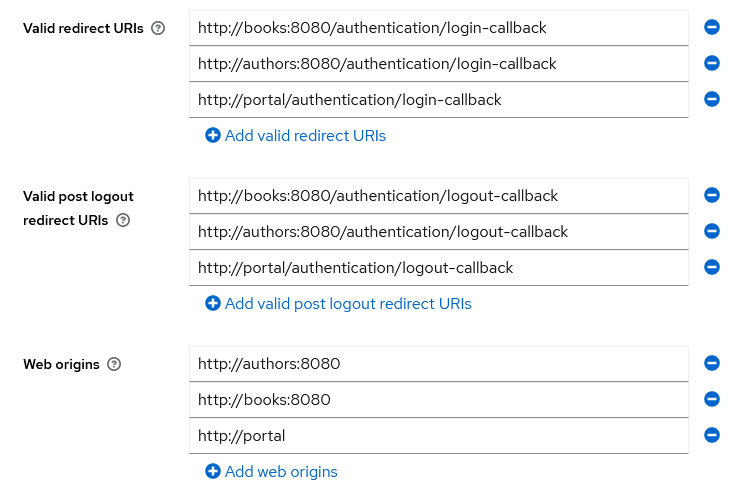
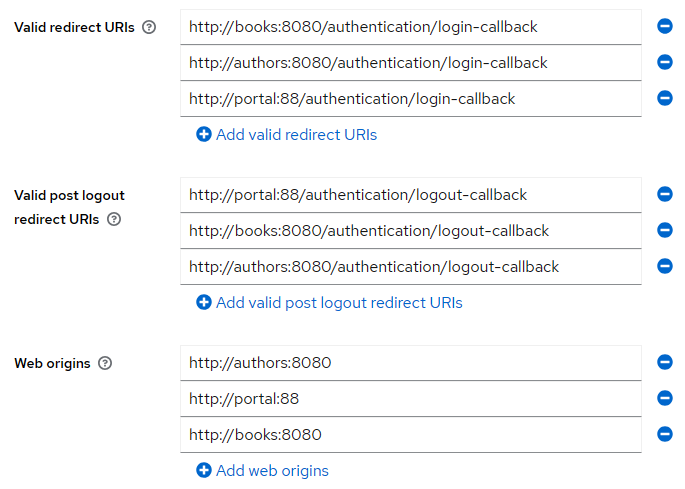
Adding security on the portal, using roles and connecting to the secured API

diff --git a/DemoEditor/portal-gui/Program.cs b/DemoEditor/portal-gui/Program.cs
@@ -16,19 +16,31 @@ public class Program
         builder.RootComponents.Add<App>("#app");
         builder.RootComponents.Add<HeadOutlet>("head::after");
 
-        builder.Services.AddScoped(sp => new HttpClient());
+        builder.Services
+            .AddHttpClient("BooksAPI", client => client.BaseAddress = new Uri("http://books:81/Books/"))
+            .AddHttpMessageHandler(x => {
+                var handler = x.GetRequiredService<AuthorizationMessageHandler>()
+                    .ConfigureHandler(new[] { "http://books:81" });
+                return handler;
+            });
 
-        // builder.Services.AddOidcAuthentication(options =>
-        // {
-        //     builder.Configuration.Bind("Local", options.ProviderOptions);
-        //     // These two lines are commented out because the line above gets the values from the .json configuration
-        //     // options.ProviderOptions.Authority = "http://iam:8080/realms/demoeditor/";
-        //     // options.ProviderOptions.ClientId = "portal";
-        //     options.UserOptions.RoleClaim = "realm_access.roles";
-        // });
+        builder.Services
+            .AddHttpClient("AuthorsAPI", client => client.BaseAddress = new Uri("http://authors:82/Authors/"))
+            .AddHttpMessageHandler(x => {
+                var handler = x.GetRequiredService<AuthorizationMessageHandler>()
+                    .ConfigureHandler(new[] { "http://authors:82" });
+                return handler;
+            });
 
-        // // This is used for the roles to be taken into account when displaying some menus or allowing access to pages
-        // builder.Services.AddApiAuthorization().AddAccountClaimsPrincipalFactory<RolesClaimsPrincipalFactory>();
+        builder.Services.AddOidcAuthentication(options =>
+        {
+            options.ProviderOptions.Authority = "http://iam:8080/realms/demoeditor/";
+            options.ProviderOptions.ClientId = "portal";
+            options.ProviderOptions.ResponseType = "code";
+            options.UserOptions.RoleClaim = "realm_access.roles";
+        });
+
+        builder.Services.AddApiAuthorization().AddAccountClaimsPrincipalFactory<RolesClaimsPrincipalFactory>();
 
         await builder.Build().RunAsync();
     }

diff --git a/DemoEditor/README.md b/DemoEditor/README.md
@@ -16,7 +16,7 @@ This is of course not to say that I am against code improvements and I will be m
 
 The sample application follows versions that hopefully make it easier to read the book chapters and associate them with different steps in the construction of the information system:
 - Branch [v0.1](https://github.com/PacktPublishing/Enterprise-Architecture-with-.NET/tree/v0.1/DemoEditor) corresponds to a **very simple form of the application**, with only the two APIs working and a basic portal, both **without any authentication mechanism** in order to ease use as a demo of the data referential services and overall comprehension of the concepts.
-- Branch [v0.2](https://github.com/PacktPublishing/Enterprise-Architecture-with-.NET/tree/v0.2/DemoEditor) adds the authentication and authorization management to the application (both frontend and backend) using a Keycloak IAM server. It also adds the batch import of data, using a Docker volume.
+- Branch [v0.2](https://github.com/PacktPublishing/Enterprise-Architecture-with-.NET/tree/v0.2/DemoEditor) adds the **authentication and authorization management** to the application (both frontend and backend) using a Keycloak IAM server. It also adds the batch import of data, using a Docker volume.
 - Branch [main](https://github.com/PacktPublishing/Enterprise-Architecture-with-.NET/tree/main/DemoEditor) is the most up-to-date version of the application, with **maximum content, including applications from all chapters** of the book (and thus highest level of complexity for a full installation).
 
 ## Prerequisites
@@ -111,6 +111,10 @@ Going to `http://portal:88` should provide the following interface (if an error 
 
 ![](images/Welcome.png)
 
+Most menus are invisible, until you click on `Log in` and connect using the `francesca` user that has been created above, and who have most accesses, owing to her `director` role:
+
+![](images/Login.png)
+
 Clicking on the `Books` menu brings you to the list of books in the dedicated service:
 
 ![](images/Books.png)
@@ -127,4 +131,8 @@ This interface allows you to edit authors with the auto-patch method (see the bo
 
 ![](images/AuthorAutoPatch.png)
 
-And that's about all you can do with this first, very limited, version. But its architecture is done in such a way that it is going to be easy for the system to follow business-led evolutions (this is the main subject of the book).
+If you log out, create a user with a simple `editor` role, which provides fewer accesses (or even `author`, which has almost no rights), then log in again using this new user, you will notice some menus do not appear. In addition, trying to enter the URL directly will not help and you will be rejected anyway:
+
+![](images/Unauthorized.png)
+
+And that's about it for this second version of the sample application. The evolution to a secured system has been realized without touching any of the business function, but that sounds logical. The real test of the architecture will be when adding some business-related features, which will be the subjects of the following versions (see other branches of the repository).
